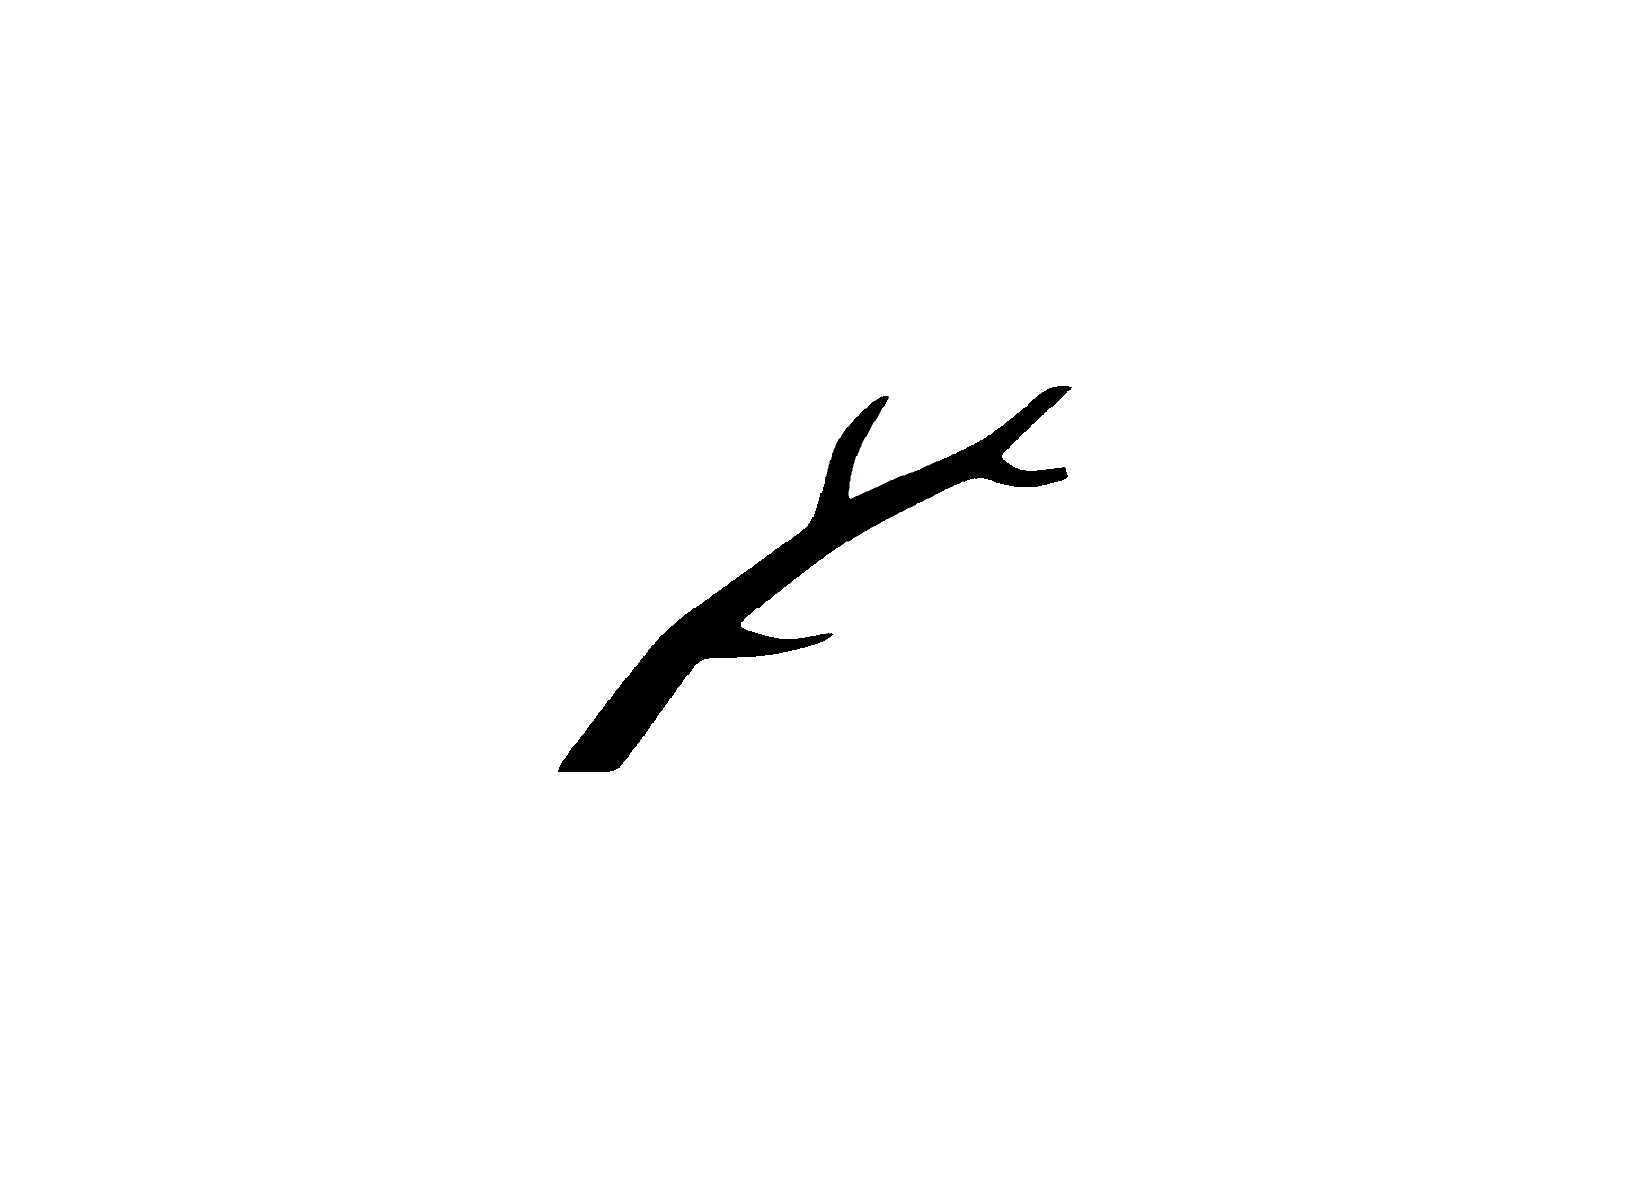
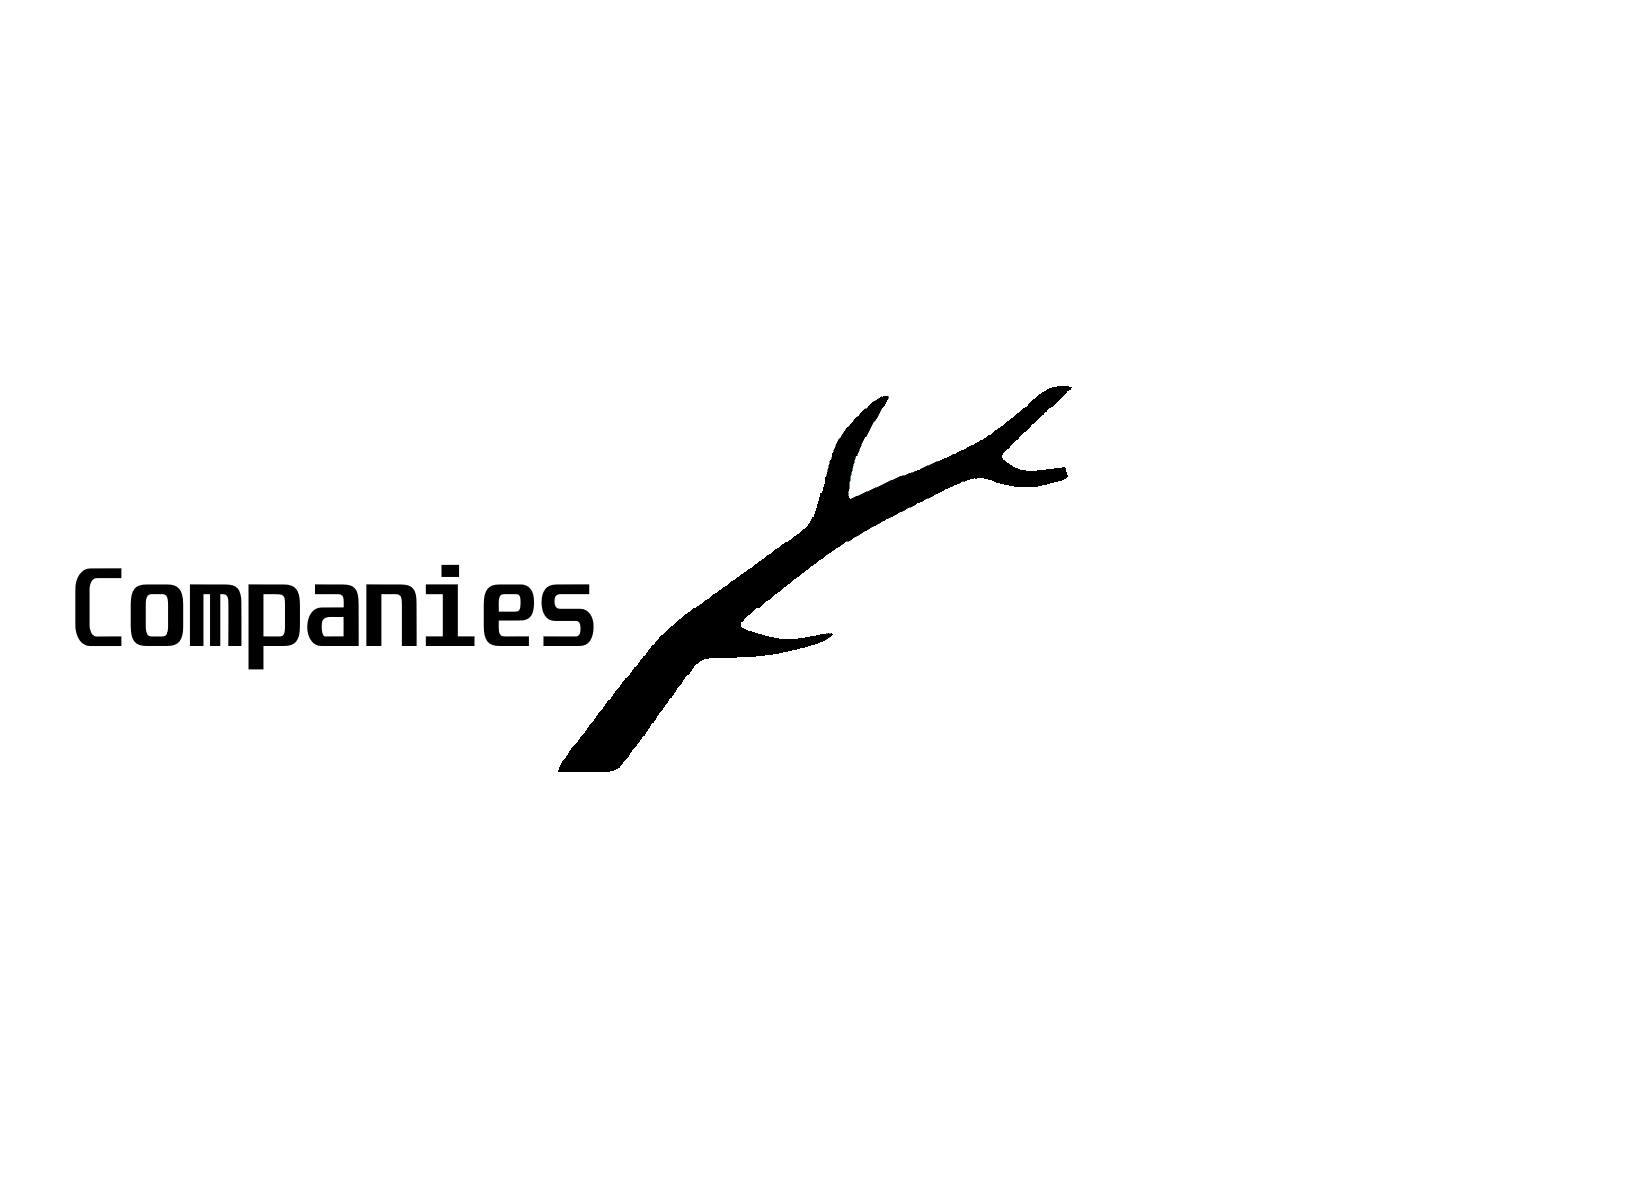
updated img on slider + made them buttons

Changed region(s): [[0.0309, 0.4625, 0.3709, 0.555]]

diff --git a/index.html b/index.html
@@ -42,23 +42,29 @@
       </nav>
     </div>
   </header>
-  <div class="hero gradient-border">
+  <!--<div class="hero gradient-border">-->
+
   <head>
-  <meta charset="utf-8">
-  <title>...</title>
+    <meta charset="utf-8">
+    <title>...</title>
     <link rel="stylesheet" type="text/css" href="css/slider.css" />
     <script src="js/slider.js"></script>
-    </head>
-    <body>
-      <div class="ba-slider">
-         <img src="css/res/rainbow_branch_big.png" alt="">
-         <div class="resize">
-           <img src="css/res/black_branch_big.png" alt="">
-         </div>
-         <span class="handle"></span>
+  </head>
+  <body>
+    <div class="ba-slider">
+      <a href="influencer.html">
+        <img src="css/res/home_page_influencers_r.png" style="padding-top: 70px" alt="">
+      </a>
+       <div class="resize">
+         <a href="company.html">
+           <img src="css/res/home_page_companies.png" style="padding-top: 70px" alt="">
+         </a>
        </div>
-    </body>
-  </div>
+       <span class="handle"></span>
+     </div>
+  </body>
+
+  <!--</div>-->
 
 
   <div class="row content">
